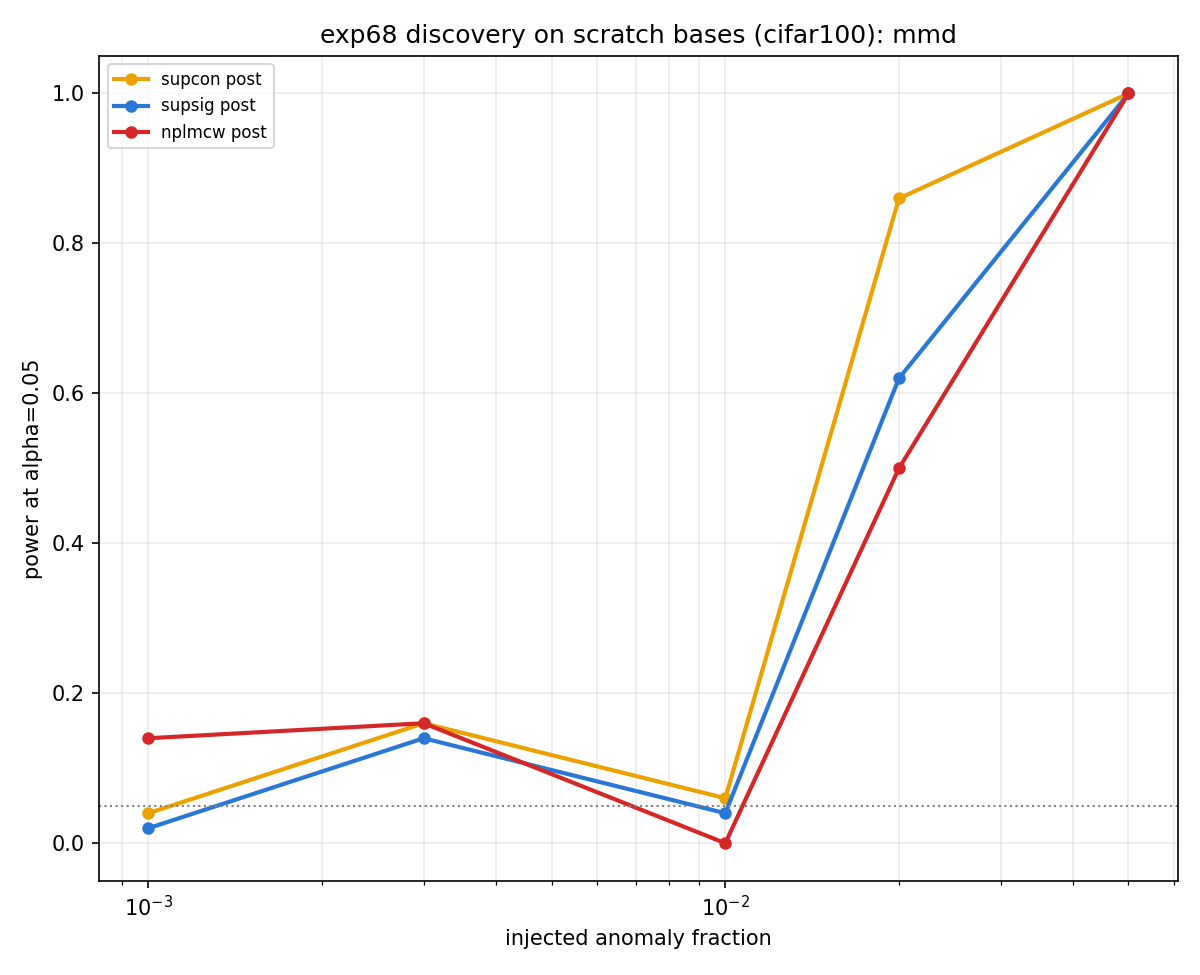
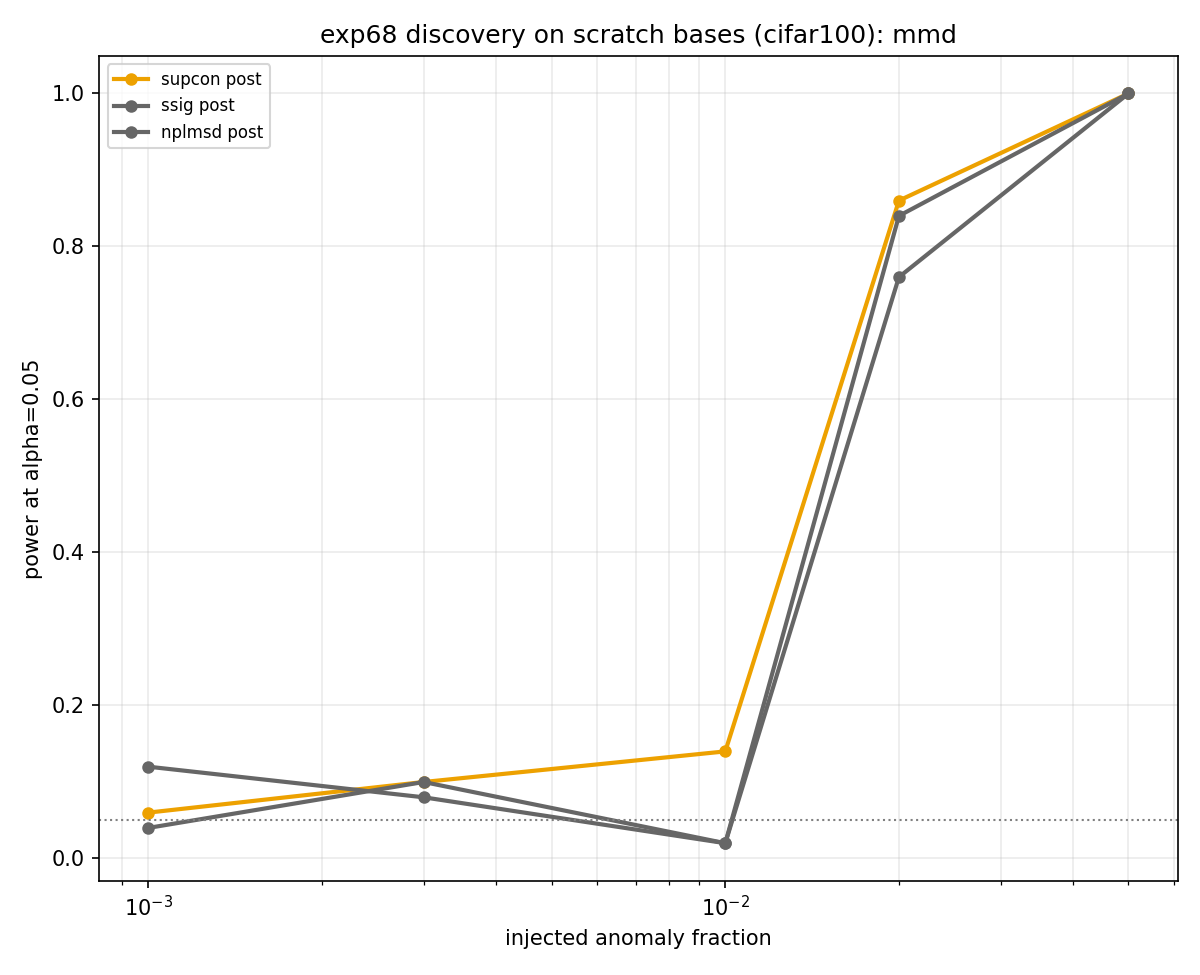
Exp 124 (Block A): falsifier fires -- ssig probe claim loses leakage-free support; calibration dissociation survives on scratch trunks

diff --git a/logs/SUMMARY_TABLES.md b/logs/SUMMARY_TABLES.md
@@ -1601,3 +1601,29 @@ Exp 123 addendum (`123_currency_independence.py --per-dataset`,
   understate that alignment.  Standing caveat unchanged:
   discoverability (purity/margin) never clears coverage, so this
   audits 3 of the 4 currencies.
+
+## Exp 124 -- leakage-free shortlist on scratch trunks (Tier 9 Block A)
+(cifar100, 100-D, holdout {4} [single-holdout regime], 200 ep,
+pretrain=None; exps 67+68, 2026-08-26)
+
+  arm      probe    acc     eucl    mahaT   | disc r1/r2 purity  perevt
+  supcon   0.9390   0.5451  0.2334  0.2792  | 0.000 / 0.001      dead
+  ssig     0.9273   0.5885  0.6201  0.6024  | 0.008 / 0.011      dead
+  nplmsd   0.8161   0.2317  0.4075  0.3445  | 0.008 / 0.002      0.010
+
+- THE WATCHED FALSIFIER FIRES: ssig does NOT beat supcon on probe on a
+  clean trunk (0.9273 vs 0.9390; exp-68's probe protocol gives a
+  0.9420 vs 0.9400 tie -- tie-to-worse across protocols, single
+  seed/draw).  The exp-50 "SIGReg beats SupCon on clean bases" probe
+  claim loses its leakage-free support and should be retracted from
+  the paper's shortlist argument.
+- WHAT SURVIVES LEAKAGE-FREE (new, and larger than the lost claim):
+  the calibration dissociation.  ssig's mahaT 0.602 vs supcon 0.279
+  (+0.32) and eucl 0.620 vs 0.233 on identical clean trunks -- SIGReg
+  earns its keep in the calibration currency, not the probe currency,
+  exactly the paper's central dissociation, now demonstrated where
+  backbone label leakage cannot explain it.
+- Rate floor confirmed on clean trunks: purities 0.000-0.011 (gate
+  0.15) and per-event dead, while DATASET-level detection stays alive
+  (post-ft SparKer power 0.88 [0.82,0.93], MMD 1.00 at f=0.05) --
+  the h1 regime kills pooling and per-event, not detection per se.
